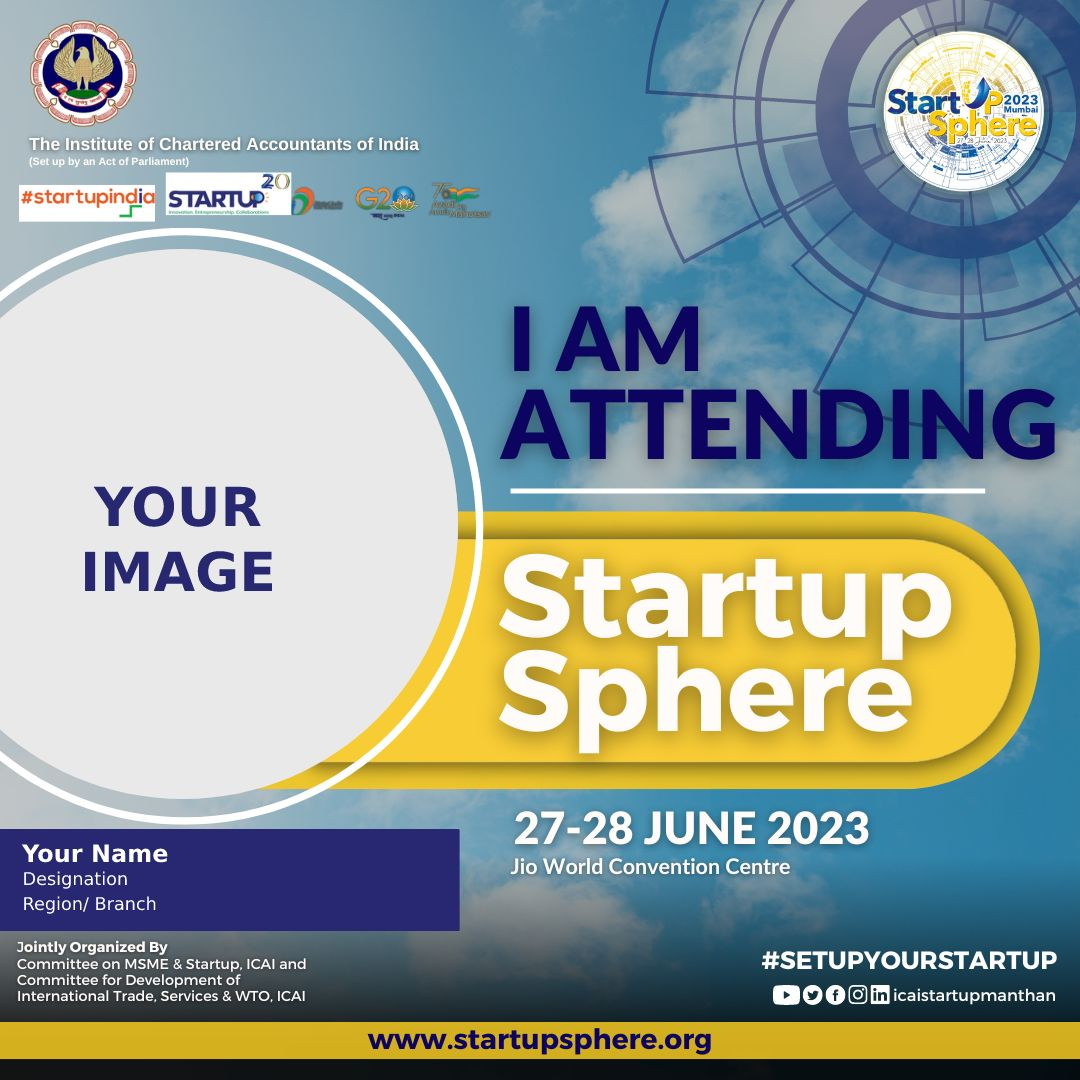
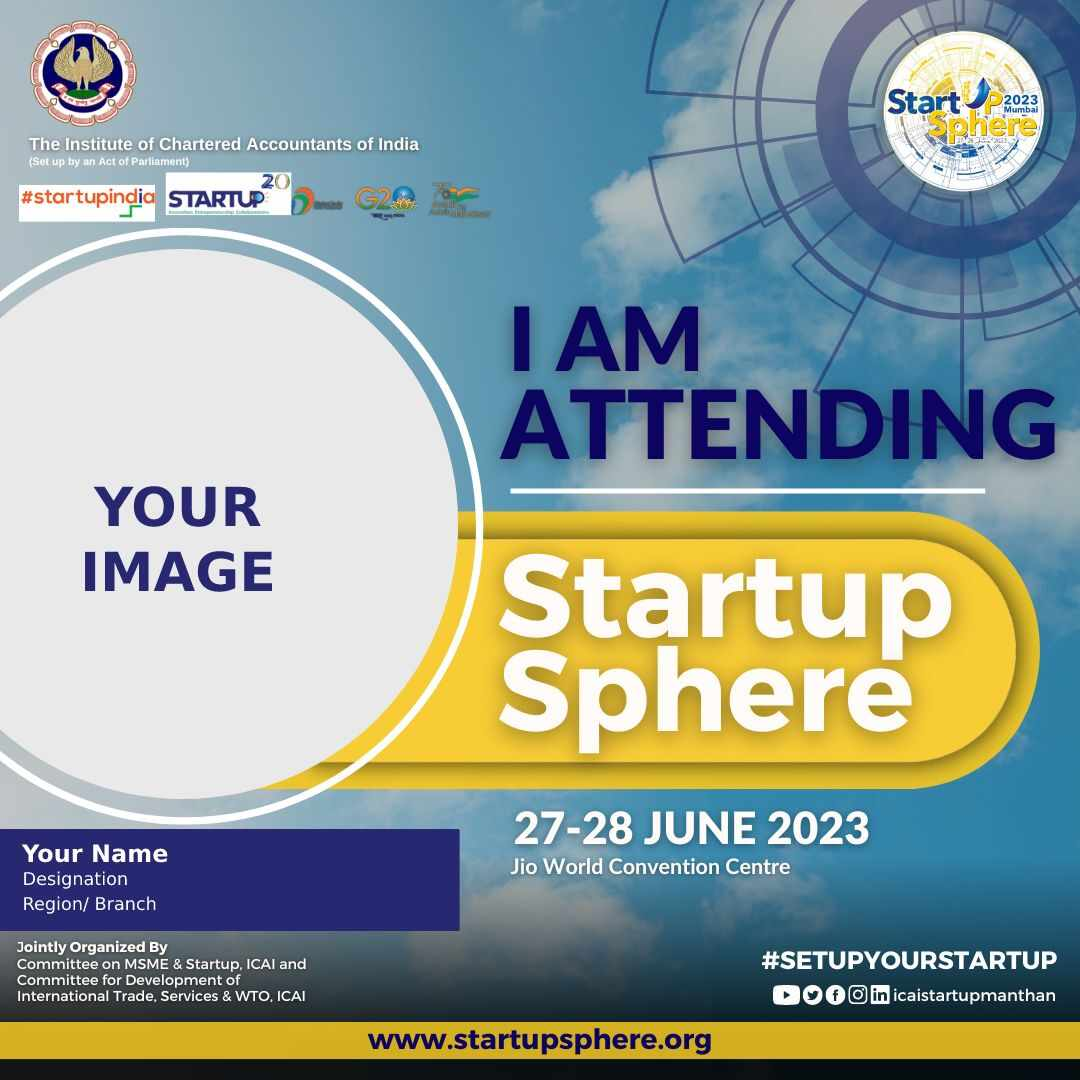
compress quality and no to close text change add lazy on image tag

diff --git a/src/App.vue b/src/App.vue
@@ -7,7 +7,7 @@
                     <vue-cropper ref="cropper" class="!h-[400px]" :aspect-ratio="16 / 16" :scalable="false" :cropBoxResizable="false"
                         :src="formData.profile_image" dragMode="none" preview=".preview" />
                     <div>
-                        <input @change="handelImageRangeValue" v-model.number.lazy="imageRangeValue" type="range" min="-0.5"
+                        <input @change="handelImageRangeValue" v-model.number="imageRangeValue" type="range" min="-0.5"
                             max="0.5" step="0.1" class="w-full mt-5 bg-gray-300 rounded-lg focus:outline-none" />
                         <div class="modal-action flex flex-col">
                             <!-- <input type="range" min="0" max="100" value="40" class="range h-5 mt-5" /> -->
@@ -25,9 +25,9 @@
             <input ref="openModelViewImageRef" type="checkbox" id="my-modal-200" class="modal-toggle" />
             <div class="modal modal-bottom  sm:modal-middle">
                 <div class="modal-box">
-                    <img id="myImage" :src="imageUrl" alt="">
+                    <img lazy id="myImage" :src="imageUrl" alt="">
                     <div class="modal-action justify-between">
-                        <label for="my-modal-200" class="btn btn-error btn-sm">NO !</label>
+                        <label for="my-modal-200" class="btn btn-error btn-sm">Close !</label>
                         <button type="button" @click="downloadImage(imageUrl)" class="btn btn-success btn-sm">download
                             Image</button>
                         <!-- <div class="form_group_new">
@@ -38,12 +38,12 @@
             </div>
         </div>
         <div class="bg-[#4406CB] w-full h-64">
-            <img class="rounded-md h-40 mx-auto pt-14" src="@/assets/image/LogoICAI.png" alt="logo">
+            <img lazy class="rounded-md h-40 mx-auto pt-14" src="@/assets/image/LogoICAI.png" alt="logo">
         </div>
         <div class="-mt-20 md:w-2/3 w-[90%]  bg-white rounded mx-auto ">
             <div class="flex flex-col md:flex-row p-5">
                 <div class="md:w-1/2 w-full">
-                    <img class="  h-full " src="@/assets/image/Image_to_show.jpg" alt="">
+                    <img lazy class="  h-full " src="@/assets/image/Image_to_show.jpg" alt="">
                 </div>
                 <div class="md:w-1/2 w-full md:px-10">
                     <div>
@@ -322,7 +322,7 @@ async function downloadImage(imageURL) {
         })
         const blob = response.data;
         const url = URL.createObjectURL(blob);
-        Object.assign(document.createElement('a'), { href: url, download: 'image.jpg' }).click();
+        Object.assign(document.createElement('a'), { href: url, download: `${formData.value.name}` }).click();
         URL.revokeObjectURL(url);
     } catch (error) {
         console.error('Error downloading image:', error);
